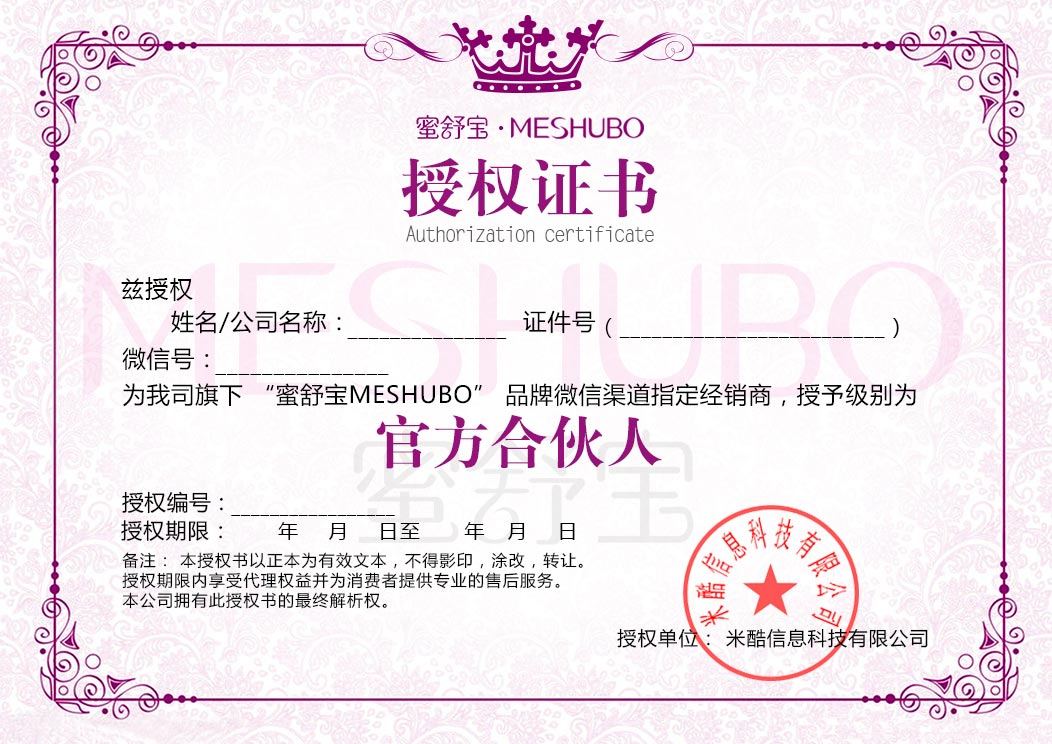
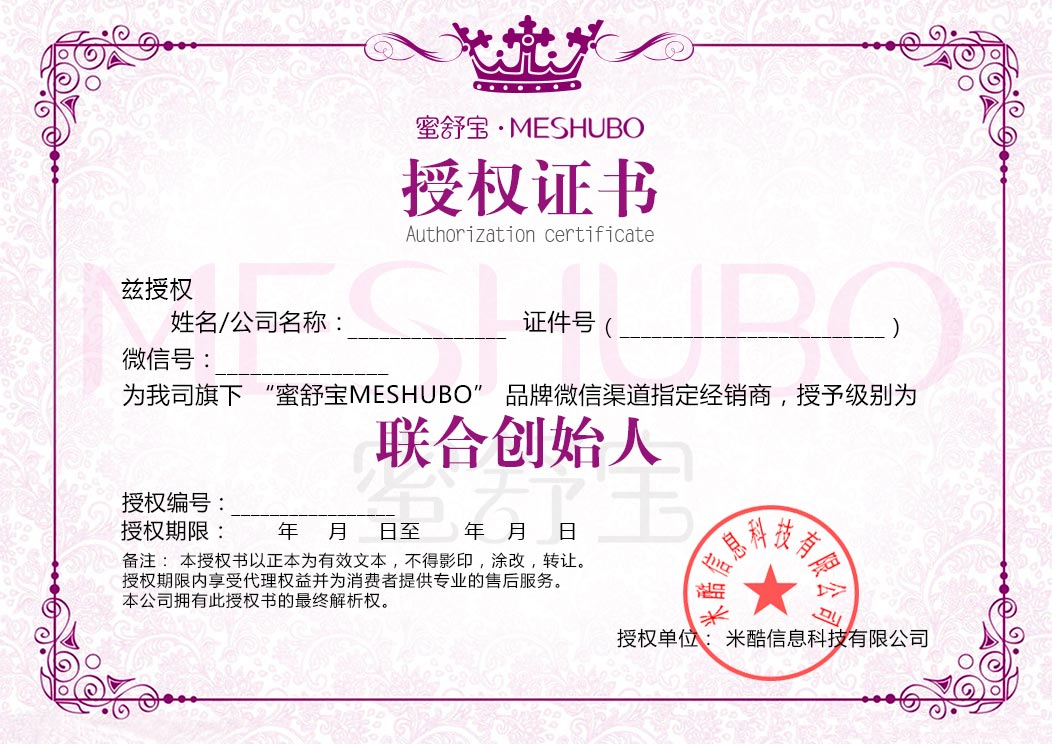
修改前端代码

Changed region(s): [[0.3346, 0.5565, 0.5779, 0.6492]]

diff --git a/Uapp/Mobile/View/Default/Profile/directRecommon.html b/Uapp/Mobile/View/Default/Profile/directRecommon.html
@@ -37,8 +37,8 @@
                     <volist name="list" id="vo" >
                         <tr>
                             <td><{$MEMBER_LEVEL[$vo['agent_grade']]['name']}></td>
-                            <td>$vo['name']</td>
-                            <td>$vo['all_buy_total_stock']</td>
+                            <td><{$vo['name']}></td>
+                            <td><{$vo['all_buy_total_stock']}></td>
                         </tr>
                     </volist>
                <else />

diff --git a/Uapp/Mobile/View/Default/Profile/indirectRecommon.html b/Uapp/Mobile/View/Default/Profile/indirectRecommon.html
@@ -37,8 +37,8 @@
                     <volist name="list" id="vo" >
                         <tr>
                             <td><{$MEMBER_LEVEL[$vo['agent_grade']]['name']}></td>
-                            <td>$vo['name']</td>
-                            <td>$vo['all_buy_total_stock']</td>
+                            <td><{$vo['name']}></td>
+                            <td><{$vo['all_buy_total_stock']}></td>
                         </tr>
                     </volist>
                <else />

diff --git a/Uapp/Mobile/View/Default/AgentManage/showMyAgent.html b/Uapp/Mobile/View/Default/AgentManage/showMyAgent.html
@@ -21,7 +21,7 @@
 		        <volist name="list" id="vo" >
 			        <tr>
 			            
-			            <td><{$MEMBER_LEVEL[$vo['buy_agent_lv']]['name']}></td>
+			            <td><{$MEMBER_LEVEL[$vo['agent_grade']]['name']}></td>
 			            <td><{$vo.name}></td>
 			            <td><{$vo.next_count}></td>
 			            <td><{$vo.all_buy_total_stock}></td>

diff --git a/Uapp/Mobile/Controller/AgentManageController.class.php b/Uapp/Mobile/Controller/AgentManageController.class.php
@@ -80,7 +80,7 @@ class AgentManageController extends CommonController {
             $profit_day_where['profit_agent_id'] = $member_id;
             $profit_day_where['is_refund'] = 1; //是否退货:1:否,2:是
             
-            $profit_day_total = $AgentProfitLog->getSum($profit_day_where,'profit_total_money');
+            $profit_day_total = $AgentProfitLog->getSum($profit_day_where,'profit_money');
             $profit_day_total = $profit_day_total ? $profit_day_total : 0;
             
             $this->assign('day_total_profit',$sale_day_total+$profit_day_total);
@@ -190,7 +190,7 @@ class AgentManageController extends CommonController {
             //直接下线总人数
             $next_count = $AgentRelation->getCount($next_where);
             $this->assign('next_count', $next_count);
-            
+           
             //下线列表
             $join = ' ar LEFT JOIN agent a on ar.member_id = a.agentId';
             $order = 'all_buy_total_stock DESC';
@@ -198,10 +198,11 @@ class AgentManageController extends CommonController {
 
             if($next_list){
                 foreach ($next_list as $ak => $av) {
-                    $next_where['pid'] = $member_id;
-                    $next_where['agent_grade'] = $$av['agent_grade']+1;
-                    $next_count = $AgentRelation->getCount($next_where);
-                    $next_list[$ak]['next_count'] = $next_count;
+                    $next_all_where['pid'] = $av['member_id'];
+                    $next_all_where['agent_grade'] = $av['agent_grade']+1;
+                    $next_all_count = $AgentRelation->getCount($next_all_where);
+                    
+                    $next_list[$ak]['next_count'] = $next_all_count;
                 }
             }
             

diff --git a/Uapp/Mobile/Controller/ProfileController.class.php b/Uapp/Mobile/Controller/ProfileController.class.php
@@ -82,7 +82,7 @@ class ProfileController extends CommonController {
     //直接推荐
     public function directRecommon() {
         
-        $data = $this->recommonList(1);
+        $data = $this->recommonList(2);
         
         $this->assign('list',$data['list']);
                 
@@ -92,7 +92,7 @@ class ProfileController extends CommonController {
     //间接推荐
     public function indirectRecommon() {
         
-        $data = $this->recommonList(2);
+        $data = $this->recommonList(1);
         
         $this->assign('list',$data['list']);
         

diff --git a/Uapp/Mobile/Controller/ProfitManageController.class.php b/Uapp/Mobile/Controller/ProfitManageController.class.php
@@ -31,7 +31,7 @@ class ProfitManageController extends CommonController {
         $list = $AgentProfitLog->getList($where,$limit,$page,$order,array('field'=>array(),'is_opposite'=>false),array('key'=>false,'expire'=>null,'cache_type'=>null));
         
         $where['is_refund'] = 1; //是否退货: 1:否,2:是
-        $count = $AgentProfitLog->getSum($where,'profit_total_money');
+        $count = $AgentProfitLog->getSum($where,'profit_money');
         $this->assign('count',$count ? $count : 0);
         
         $this->assign('list',$list);

diff --git a/Uapp/Common/Conf/config.php b/Uapp/Common/Conf/config.php
@@ -28,7 +28,7 @@ return array(
         //会员等级
         'MEMBER_LEVEL'=>array(
             0=>array('lv'=>0,'name'=>'蜜舒宝公司'),
-            1=>array('lv'=>1,'name'=>'官方合伙人'),
+            1=>array('lv'=>1,'name'=>'联合创始人'),
             2=>array('lv'=>2,'name'=>'大区合伙人'),
             3=>array('lv'=>3,'name'=>'总代合伙人'),
             4=>array('lv'=>4,'name'=>'特约合伙人'),

diff --git a/Uapp/Mobile/Controller/DeliverGoodsController.class.php b/Uapp/Mobile/Controller/DeliverGoodsController.class.php
@@ -240,6 +240,7 @@ class DeliverGoodsController extends CommonController {
             $Agent = D('Agent');
             $AgentProfitLog = D('AgentProfitLog');
             $CompanyReportsLog = D('CompanyReportsLog');
+            $LabelCode = D('LabelCode');
             
             //初始化订单总金额与销售利润金额
             $order_total_money = 0;
